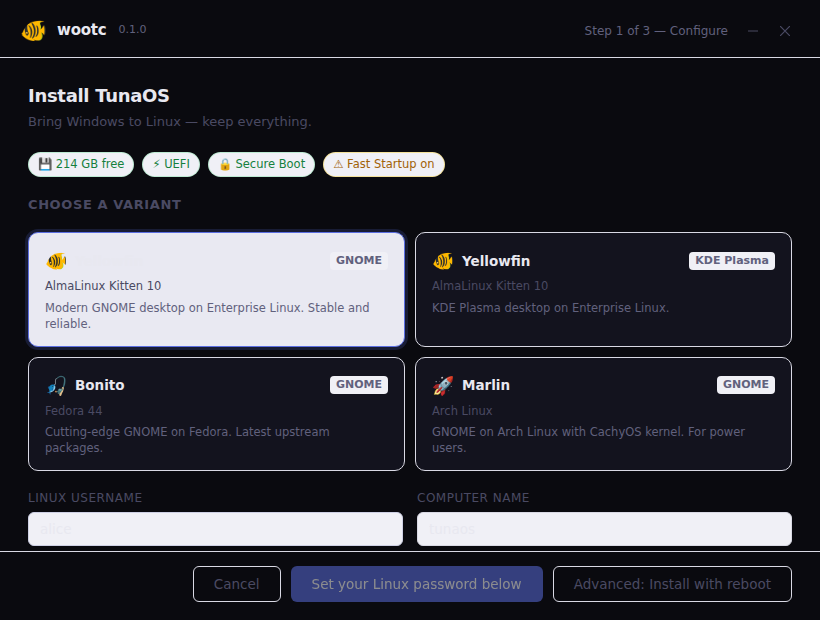
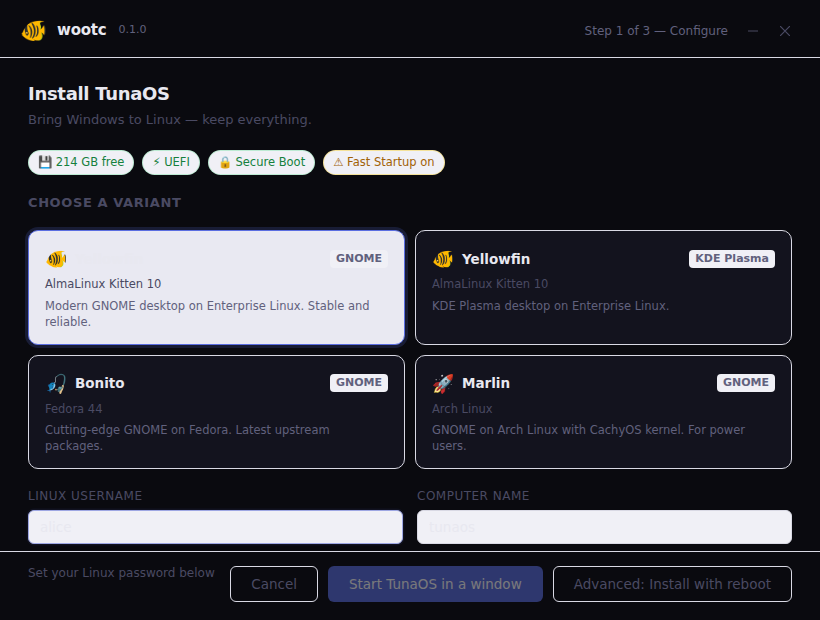
ui: make VM setup requirements readable

diff --git a/tests/gui/gui.spec.js b/tests/gui/gui.spec.js
@@ -586,24 +586,30 @@ test('VM-first account flow uses only implemented choices and supports clean res
   expect(await page.evaluate(() => window.__wootcVMCalls.map(call => call[0]))).toEqual(['prepare', 'stop', 'boot']);
 });
 
-test('VM-first action explains the next required account detail', async ({ page }) => {
+test('VM-first action shows the next required account detail', async ({ page }) => {
   await boot(page, { mode: 'installer', images: IMAGES, sysinfo: SYSINFO,
     freshVm: { available: true, probeStatus: 'passed' } });
 
   const vmButton = page.locator('#vm-prepare-btn');
+  const vmHint = page.locator('#vm-prepare-hint');
   await expect(vmButton).toBeInViewport();
   await expect(vmButton).toBeDisabled();
-  await expect(vmButton).toHaveText('Enter a valid Linux username below');
+  await expect(vmButton).toHaveText(/Start .* in a window/);
+  await expect(vmButton).toHaveAttribute('aria-describedby', 'vm-prepare-hint');
+  await expect(vmHint).toHaveAttribute('role', 'status');
+  await expect(vmHint).toHaveAttribute('aria-live', 'polite');
+  await expect(vmHint).toHaveText('Enter a valid Linux username below');
 
   await page.locator('.field:has-text("Linux Username") input').fill('alice');
-  await expect(vmButton).toHaveText('Set your Linux password below');
+  await expect(vmHint).toHaveText('Set your Linux password below');
   await shot(page, '15-vm-first-launchpad');
   const password = page.locator('input[type=password]');
   await password.nth(0).fill('temporary-guidance-password');
-  await expect(vmButton).toHaveText('Passwords do not match');
+  await expect(vmHint).toHaveText('Passwords do not match');
   await password.nth(1).fill('temporary-guidance-password');
   await expect(vmButton).toBeEnabled();
   await expect(vmButton).toHaveText(/Start .* in a window/);
+  await expect(vmHint).toBeEmpty();
 });
 
 

diff --git a/app/frontend/src/screens/launchpad.js b/app/frontend/src/screens/launchpad.js
@@ -359,6 +359,13 @@ export function renderLaunchpad() {
   if (state.freshVmCapability?.available && state.selected) {
     const vmBtn = btn(`Start ${distroName()} in a window`, 'btn btn-primary', () => tryInVM());
     vmBtn.id = 'vm-prepare-btn'; footer.appendChild(vmBtn);
+    const vmHint = el('div');
+    vmHint.id = 'vm-prepare-hint';
+    vmHint.setAttribute('role', 'status');
+    vmHint.setAttribute('aria-live', 'polite');
+    vmHint.style.cssText = 'font-size:12px;line-height:1.3;color:var(--text-dim);margin-right:auto;max-width:200px';
+    vmBtn.setAttribute('aria-describedby', vmHint.id);
+    footer.insertBefore(vmHint, footer.firstChild);
   }
   if (state.freshVmCapability?.runtimeNeeded) {
     footer.appendChild(btn('Set up Linux in a window', 'btn btn-primary', () => installVMRuntime()));
@@ -411,8 +418,10 @@ function refreshInstallValidity() {
     else if (!c.password) vmReason = 'Set your Linux password below';
     else if (c.password !== c.passwordConfirm) vmReason = 'Passwords do not match';
     vmBtn.disabled = vmReason !== '';
-    vmBtn.textContent = vmReason || `Start ${distroName()} in a window`;
+    vmBtn.textContent = `Start ${distroName()} in a window`;
     vmBtn.title = vmReason;
+    const vmHint = document.getElementById('vm-prepare-hint');
+    if (vmHint) vmHint.textContent = vmReason;
   }
   let reason = '';
   // Preflight safety gates (#63) come FIRST: these are conditions under which
